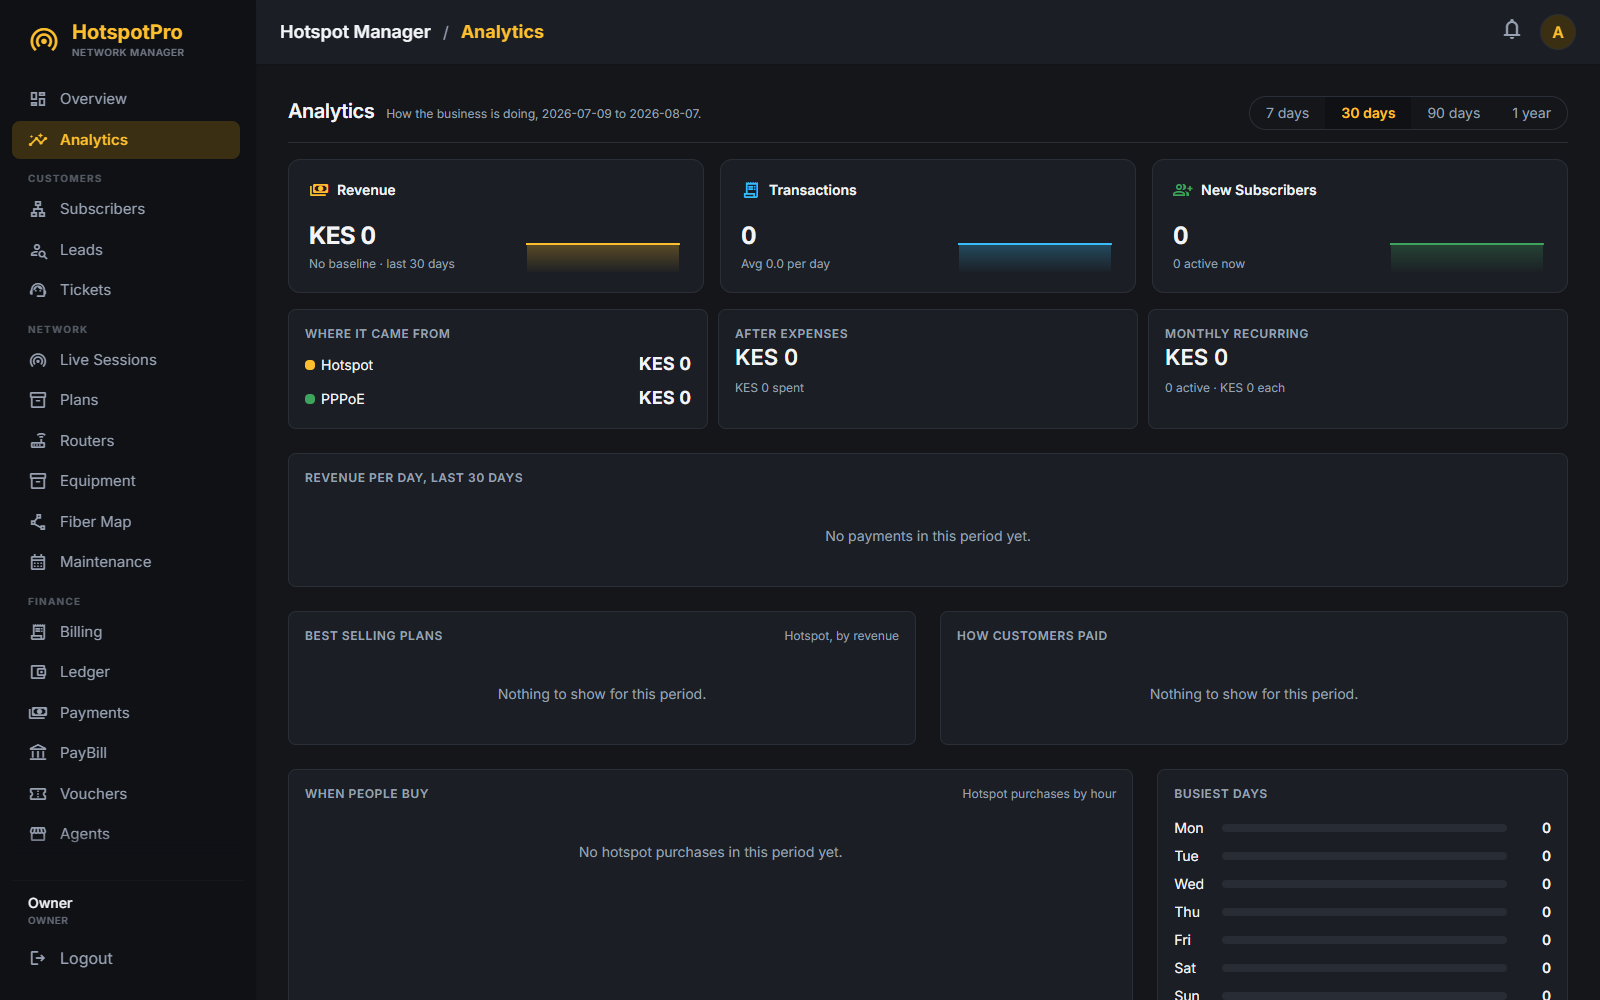
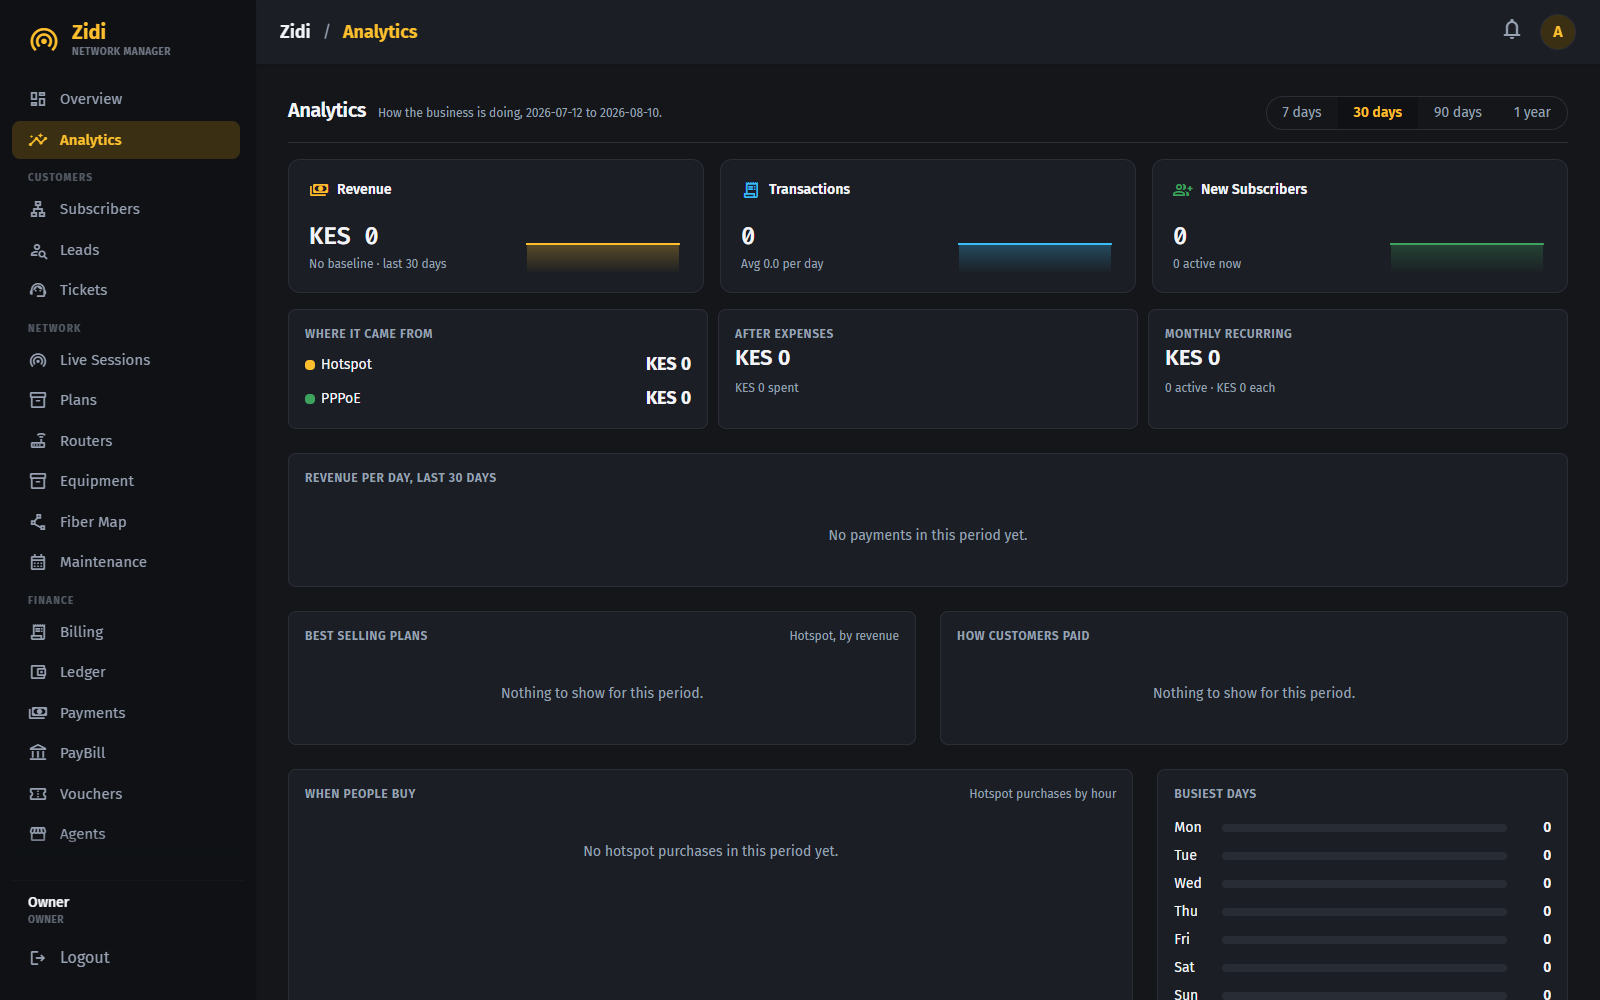
Rebrand the admin console to Zidi (matches the marketing)
- Admin login and shell now show "Zidi" instead of HotspotPro / Hotspot
  Manager, so the product matches the Zidi marketing site.
- Regenerated the marketing hero screenshot from the rebranded console,
  so the shot on the landing page reads "Zidi" in the sidebar and top bar.

Follow-up for true white-label: drive the shell name/logo from each
tenant's Branding businessName rather than a hardcoded "Zidi".

diff --git a/frontend/src/pages/Admin.jsx b/frontend/src/pages/Admin.jsx
@@ -247,7 +247,7 @@ function Login({ onLogin }) {
           <div className="w-16 h-16 rounded-full bg-white/10 backdrop-blur border border-white/20 flex items-center justify-center shadow-[0_8px_16px_rgba(15,23,42,0.3)] mb-4">
             <Icon name="wifi_tethering" filled className="text-primary-fixed text-[32px]!" />
           </div>
-          <h1 className="text-2xl font-bold text-white">HotspotPro</h1>
+          <h1 className="text-2xl font-bold text-white">Zidi</h1>
           <p className="text-sm text-white/70">Network Manager</p>
         </div>
 
@@ -255,7 +255,7 @@ function Login({ onLogin }) {
           onSubmit={submit}
           className="bg-surface-container-lowest rounded-lg border border-outline-variant border-t-2 border-t-primary p-6 flex flex-col gap-4"
         >
-          <h2 className="text-lg font-semibold text-on-surface">Sign in to Hotspot Manager</h2>
+          <h2 className="text-lg font-semibold text-on-surface">Sign in to Zidi</h2>
           <div>
             <label className="block text-xs font-semibold tracking-wider uppercase text-on-surface-variant mb-2" htmlFor="admin-user">
               Username
@@ -504,7 +504,7 @@ function SidebarContent({ tab, onNav, onLogout, badges = {}, permissions, me }) 
       <div className="mb-5 px-4 flex items-center gap-3 shrink-0">
         <Icon name="wifi_tethering" filled className="text-primary-fixed text-[32px]!" />
         <div>
-          <p className="text-xl font-bold text-primary-fixed leading-tight">HotspotPro</p>
+          <p className="text-xl font-bold text-primary-fixed leading-tight">Zidi</p>
           <p className="text-[10px] font-semibold tracking-wider text-surface-variant/70">NETWORK MANAGER</p>
         </div>
       </div>
@@ -754,7 +754,7 @@ function Shell({ auth, onLogout }) {
           <button className="md:hidden p-2 -ml-2 text-on-surface cursor-pointer" onClick={() => setDrawer(true)} aria-label="Open menu">
             <Icon name="menu" />
           </button>
-          <span className="text-lg font-semibold text-on-surface hidden sm:inline">Hotspot Manager</span>
+          <span className="text-lg font-semibold text-on-surface hidden sm:inline">Zidi</span>
           <span className="text-on-surface-variant hidden sm:inline">/</span>
           <span className="text-lg font-bold text-primary">{TAB_TITLES[tab]}</span>
         </div>
